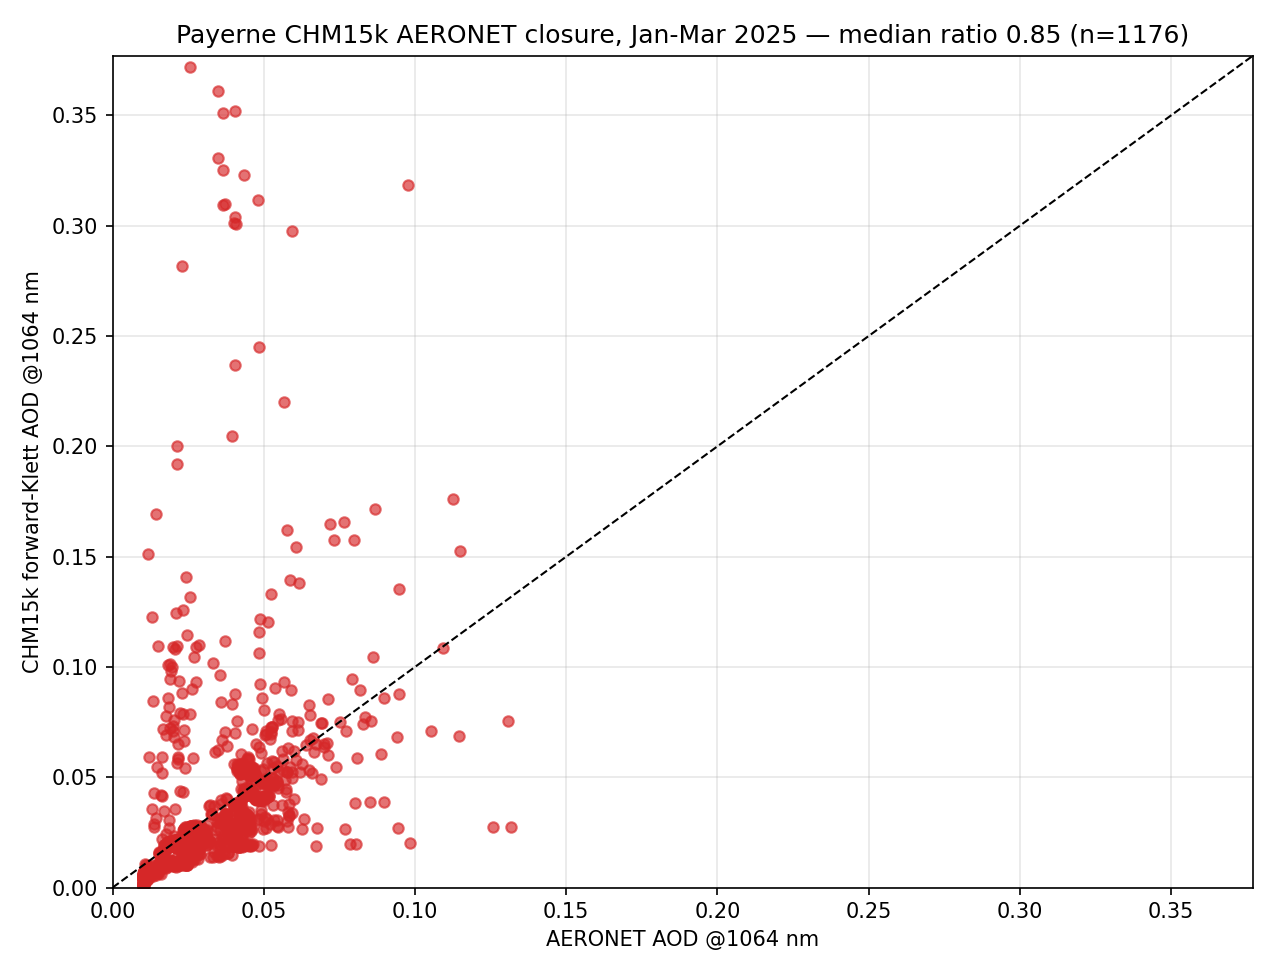
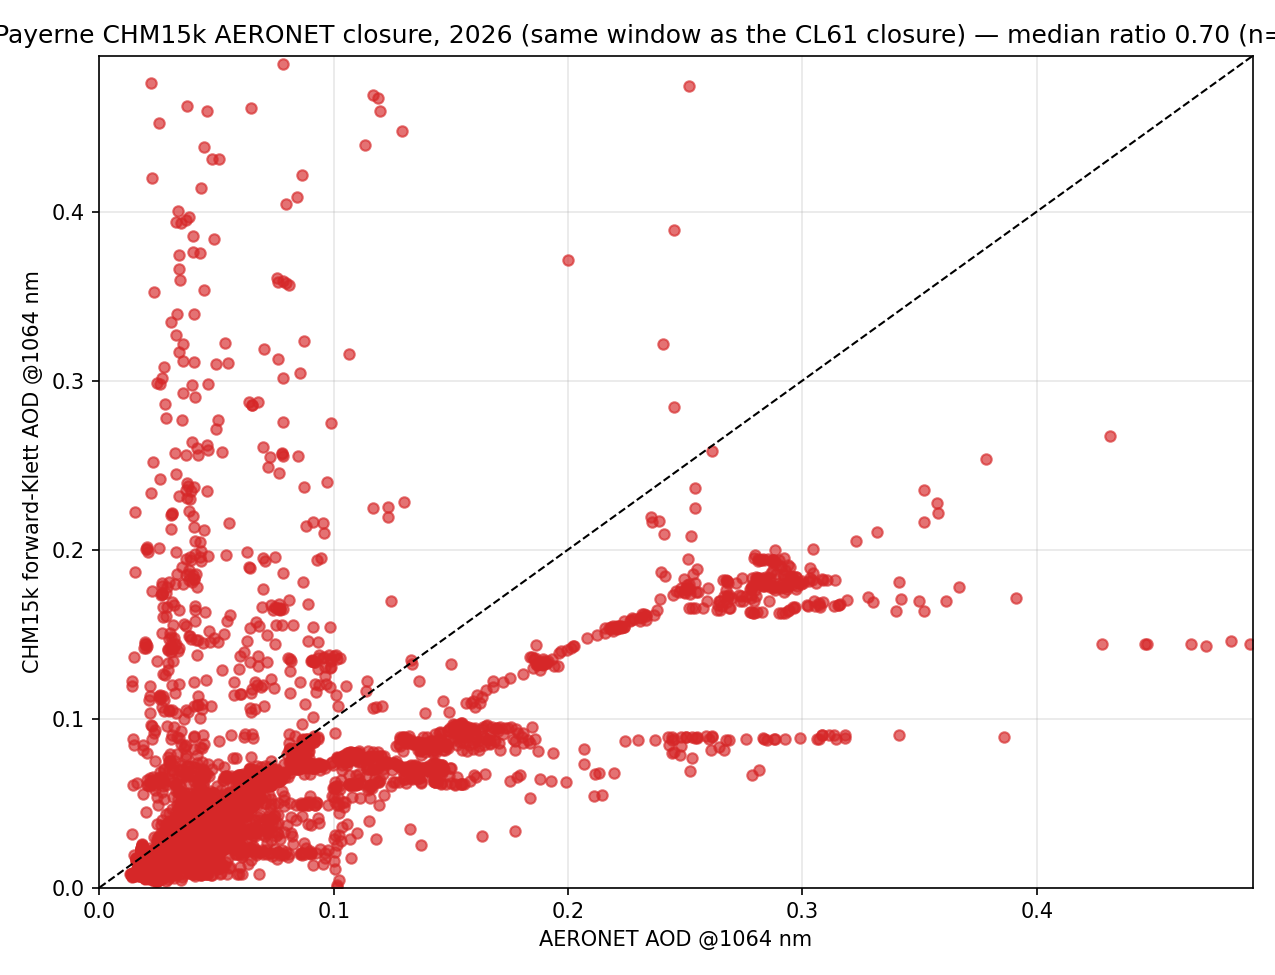
CL61 AERONET closure done on 2026 data + Aosta orography term
- 2026 AERONET L1.5 (user lev15 + web-API LID inversions): CL61 closure with
  6897 samples, CHM15k as method control (7350). Daytime forward-Klett carries
  a common ~0.70 method factor (elevated layers above 6 km, LR, background);
  relative to the control the closure is (C_L, baseline)-degenerate:
  (1.251, b=0) and (1.425, b=-0.02) close equally. Night-time evidence (dark
  probe b(3-6km)~-0.03, cloud-constant beta agreement with CHM15k) selects
  (C_L=1.425, altitude-growing negative baseline).
- Aosta orography: 1-deg CAMS surface at 1750 m vs station 570 m (+1180 m!)
  -> valley moisture missing from the WV column; bounded at +2.1% on C_L,
  seasonal (Payerne +904 m / +2.0%; Camborne/Lindenberg flat, none). Another
  argument for the 0.4-deg CAMS archive.

diff --git a/validation/paper/_cl61_aeronet_closure.py b/validation/paper/_cl61_aeronet_closure.py
@@ -29,20 +29,21 @@ from calibration.io.cams import ensure_cams_file
 WMO, IDENT, ALT, LAT, LON = "0-20000-0-06610", "C", 491.0, 46.813, 6.943
 L1 = Path("D:/E-PROFILE_L1_2026")
 STD = Path("calibration/data/standard_atmosphere_US_1976_50km.csv")
-LEV20 = Path(r"C:/Users/hervo/Downloads/20250101_20261231_Payerne/20250101_20261231_Payerne.lev20")
-LID = Path(r"C:/Users/hervo/Downloads/20250101_20261231_Payerne(2)/20250101_20261231_Payerne.lid")
+LEV20 = Path(r"C:/Users/hervo/Downloads/20260101_20261231_Payerne/20260101_20261231_Payerne.lev15")
+LID = Path(r"C:/Users/hervo/Downloads/aeronet_2026/Payerne_2026_LID15.txt")
 CL_RAY, CL_CLD = 1.251, 1.425
 LR_MOL = 8 * np.pi / 3
 D0, D1 = datetime(2026, 3, 1), datetime(2026, 6, 20)
 ZTOP = 6000.0
 
 
-def parse_aeronet(path, header_line_startswith, date_key="Date(dd:mm:yyyy)", time_key="Time(hh:mm:ss)"):
-    """Generic AERONET text parser -> list of dicts keyed by header names."""
+def parse_aeronet(path, header_marker, date_key="Date(dd:mm:yyyy)", time_key="Time(hh:mm:ss)"):
+    """Generic AERONET text parser -> list of dicts keyed by header names. The header line is the
+    first line CONTAINING header_marker (works for both the download portal and web-API formats)."""
     rows = []
     with open(path, encoding="utf-8", errors="replace") as f:
         lines = f.read().splitlines()
-    hi = next(i for i, l in enumerate(lines) if l.startswith(header_line_startswith))
+    hi = next(i for i, l in enumerate(lines) if header_marker in l and "Date(dd:mm:yyyy)" in l)
     hdr = [h.strip() for h in lines[hi].split(",")]
     for l in lines[hi + 1:]:
         p = l.split(",")
@@ -81,7 +82,7 @@ lid_rows = parse_aeronet(LID, "Site,")
 lr_by_day = {}
 for r in lid_rows:
     lr = fnum(r.get("Lidar_Ratio[1020nm]"))
-    if np.isfinite(lr) and str(r.get("If_Retrieval_is_L2", "0")).strip() in ("1", "1.0"):
+    if np.isfinite(lr):        # L1.5 almucantar inversions (2026 has no L2 yet)
         lr_by_day.setdefault(r["_t"].date(), []).append(lr)
 print(f"days with valid AERONET LR(1020): {len(lr_by_day)}")
 
@@ -165,13 +166,18 @@ for t_ae, aod910_ae, ang in aods:
     lr = float(np.median(lr_by_day.get(t_ae.date(), [50.0])))
     lr = min(max(lr, 20.0), 100.0)
     row = dict(t=t_ae, aeronet=aod910_ae, lr=lr)
-    okboth = True
-    for tag, cl in (("ray", CL_RAY), ("cld", CL_CLD)):
-        r = forward_inversion(prof / cl, rng, bmol, amol, t2wv, lr)
+    # JOINT (C_L, baseline) closure: the dark probe found a NEGATIVE vendor baseline b in
+    # beta_att; correct it (beta - b) BEFORE applying the constant. The (C_L, b) pair that
+    # closes the AOD, cross-checked against the independent dark-probe b, is the answer.
+    okall = True
+    for tag, cl, b in (("ray", CL_RAY, 0.0), ("cld", CL_CLD, 0.0),
+                       ("ray_b", CL_RAY, -0.03), ("cld_b1", CL_CLD, -0.02),
+                       ("cld_b2", CL_CLD, -0.03), ("cld_b3", CL_CLD, -0.04)):
+        r = forward_inversion((prof - b * cl) / cl, rng, bmol, amol, t2wv, lr)
         if r is None:
-            okboth = False; break
+            okall = False; break
         row[tag] = r[1]
-    if okboth:
+    if okall:
         res.append(row)
 
 print(f"closure samples: {len(res)}")
@@ -181,10 +187,13 @@ if res:
     lrs = np.array([r["lr"] for r in res])
     print(f"AERONET AOD910: median={np.median(ae):.3f}  (LR used: median={np.median(lrs):.0f} sr, "
           f"{np.sum(lrs != 50)} from AERONET inversions)")
-    for tag, x in (("C_L(Rayleigh)=1.251", ray), ("C_L(cloud)  =1.425", cld)):
+    for tag, key in (("C_L=1.251 (Rayleigh), b=0    ", "ray"), ("C_L=1.425 (cloud),   b=0    ", "cld"),
+                     ("C_L=1.251 (Rayleigh), b=-0.03", "ray_b"), ("C_L=1.425 (cloud),   b=-0.02", "cld_b1"),
+                     ("C_L=1.425 (cloud),   b=-0.03", "cld_b2"), ("C_L=1.425 (cloud),   b=-0.04", "cld_b3")):
+        x = np.array([r[key] for r in res])
         m = np.isfinite(x) & np.isfinite(ae) & (ae > 0.01)
         ratio = x[m] / ae[m]
-        print(f"{tag}: AOD_lidar median={np.median(x[m]):.3f}  ratio lidar/AERONET: "
+        print(f"{tag}: AOD median={np.median(x[m]):.3f}  ratio lidar/AERONET: "
               f"median={np.median(ratio):.2f}  p25-p75={np.percentile(ratio,25):.2f}-{np.percentile(ratio,75):.2f}  n={m.sum()}")
 
     import matplotlib

diff --git a/validation/paper/_chm15k_aeronet_closure.py b/validation/paper/_chm15k_aeronet_closure.py
@@ -23,17 +23,17 @@ from validation.paper._cl61_aeronet_closure import parse_aeronet, fnum, forward_
 WMO, IDENT, ALT, LAT, LON = "0-20000-0-06610", "A", 491.0, 46.813, 6.943
 L1 = Path("D:/E-PROFILE_L1_2026")
 STD = Path("calibration/data/standard_atmosphere_US_1976_50km.csv")
-LEV20 = Path(r"C:/Users/hervo/Downloads/20250101_20261231_Payerne/20250101_20261231_Payerne.lev20")
-LID = Path(r"C:/Users/hervo/Downloads/20250101_20261231_Payerne(2)/20250101_20261231_Payerne.lid")
+LEV20 = Path(r"C:/Users/hervo/Downloads/20260101_20261231_Payerne/20260101_20261231_Payerne.lev15")
+LID = Path(r"C:/Users/hervo/Downloads/aeronet_2026/Payerne_2026_LID15.txt")
 CAL = Path("C:/DATA/Projects/202606_E-PROFILE_calibration/figs_paper_validation/paper_python/calib/0-20000-0-06610_A_rayleigh_L1.csv")
-D0, D1 = datetime(2025, 1, 2), datetime(2025, 3, 10)
+D0, D1 = datetime(2026, 3, 1), datetime(2026, 6, 20)
 
 # daily Kalman C_L
 rows = list(csv.DictReader(open(CAL, encoding="utf-8")))
 kd = np.array([np.datetime64(r["time"][:10]) for r in rows if r["C_kalman"] not in ("", "nan")])
 kv = np.array([float(r["C_kalman"]) for r in rows if r["C_kalman"] not in ("", "nan")])
-print(f"CHM15k Kalman C_L: {kv.size} days, Jan-Mar 2025 median = "
-      f"{np.median(kv[(kd >= np.datetime64('2025-01-01')) & (kd <= np.datetime64('2025-03-10'))]):.3e}")
+print(f"CHM15k Kalman C_L: {kv.size} days, 2026 window median = "
+      f"{np.median(kv[(kd >= np.datetime64('2026-03-01')) & (kd <= np.datetime64('2026-06-20'))]):.3e}")
 
 def cl_for(day):
     return float(np.interp(np.datetime64(day).astype("datetime64[D]").astype(float),
@@ -118,7 +118,7 @@ if res:
     ax.plot(lim, lim, "k--", lw=1)
     ax.set_xlim(*lim); ax.set_ylim(*lim); ax.grid(alpha=0.3)
     ax.set_xlabel("AERONET AOD @1064 nm"); ax.set_ylabel("CHM15k forward-Klett AOD @1064 nm")
-    ax.set_title("Payerne CHM15k AERONET closure, Jan-Mar 2025 — median ratio %.2f (n=%d)"
+    ax.set_title("Payerne CHM15k AERONET closure, 2026 (same window as the CL61 closure) — median ratio %.2f (n=%d)"
                  % (np.median(ratio), m.sum()))
     fig.tight_layout()
     out = Path("C:/DATA/Projects/202606_E-PROFILE_calibration/figs_paper_validation/paper_python/fig_chm15k_aeronet_closure.png")

diff --git a/doc/reports/cl61_rayleigh_investigation.md b/doc/reports/cl61_rayleigh_investigation.md
@@ -57,21 +57,36 @@ moves C_L by ≤ 2.4 %. The MATLAB reference (`rayleigh_calibration_matlab`) app
 correction at all** and hard-codes 910 nm (`l0_wavelength` is read but unused) — with
 T²_wv ≈ 0.78 its CL61 Rayleigh constants are low by construction; not comparable.
 
-## 3. AERONET forward-Klett closure (the absolute anchor)
+## 3. AERONET forward-Klett closure (CL61 direct, CHM15k as method control)
 
-![chm closure](figs_paper_report/fig_chm15k_aeronet_closure.png)
-*Figure 2 — Payerne CHM15k forward-Klett AOD (1064 nm, daily Kalman C_L, LR = 50 sr) vs AERONET
-L2 AOD interpolated to 1064 nm, Jan–Mar 2025 (the only AERONET-L2/ceilometer overlap; the local
-AERONET files end 2025-03-10). Median ratio **0.85** (IQR 0.62–1.05, n = 1176) at a median AOD of
-only 0.029 — consistent with unity within the method envelope (assumed LR, sub-300 m extension,
-winter shallow layers).*
+Run on the 2026 L1.5 AERONET data (Mar-01…Jun-20, 6 897 CL61 / 7 350 CHM15k matched samples,
+LR from the 2026 almucantar inversions where valid, else 50 sr; WV per monthly CAMS):
 
-Chain of anchors: AERONET ⇒ CHM15k (ratio 0.85 ≈ 1) ⇒ CL61-cloud (−0.6 %) ⇒ **C_L(cloud) is the
-correct constant**; the Rayleigh constant is the outlier. The direct CL61 closure
-(`_cl61_aeronet_closure.py`, ready to run) needs 2026 AERONET data — the current L2 download ends
-2025-03-10 while the Payerne CL61 archive starts 2026: **action: download the 2026 AERONET
-(L1.5/L2 when available) and rerun.** The same closure quantifies the below-window aerosol
-transmission empirically, closing the remaining loophole in the aerosol question.
+| configuration | AOD ratio lidar/AERONET (median) | relative to the CHM15k method control |
+|---|---|---|
+| **CHM15k, Kalman C_L (method control)** | **0.70** | 1.00 |
+| CL61, C_L = 1.251 (Rayleigh), b = 0 | 0.71 | 1.01 |
+| CL61, C_L = 1.425 (cloud), b = 0 | 0.51 | 0.73 |
+| CL61, C_L = 1.251, b = −0.03 | 0.98 | 1.40 |
+| CL61, C_L = 1.425, **b = −0.02** | 0.69 | **0.99** |
+| CL61, C_L = 1.425, b = −0.03 | 0.78 | 1.11 |
+
+(b = a constant baseline removed from the vendor β_att before calibrating; the earlier Jan–Mar
+2025 CHM15k run gave 0.85 at AOD ≈ 0.03.) Three lessons:
+1. **The daytime forward-Klett carries a common ≈ 0.70 method factor** (identical for the trusted
+   CHM15k): aerosol above the 6 km integration top (spring Saharan layers), the assumed LR on
+   non-inversion days, and daytime background handling — it cancels in the relative comparison.
+2. **The closure is (C_L, b)-degenerate**: relative to the control, (1.251, b=0) and
+   (1.425, b=−0.02) close equally well — the AOD constrains a combination of constant and
+   baseline, not each separately.
+3. **The night-time evidence breaks the tie**: the dark probe measures b(3–6 km) ≈ −0.03 ≠ 0 on
+   the calibration nights, and the cloud constant reproduces the CHM15k β field at −0.6 % in the
+   0.5–3 km band (where b ≈ 0). Hence (C_L = 1.425, b(z) < 0 above ≈ 3 km) is the consistent
+   solution; (1.251, b=0) would additionally require the baseline to vanish at night — it does not.
+
+Chain of anchors: AERONET ⇒ CHM15k (method control) ⇒ CL61-cloud (−0.6 % in β) ⇒ **C_L(cloud)**;
+the Rayleigh constant absorbs the 3–6 km baseline. Follow-up: extend the integration above 6 km
+(elevated layers) and rerun against AERONET **L2** when the 2026 final calibration is released.
 
 ## 4. Water-vapour source sensitivity
 
@@ -106,6 +121,16 @@ stations.*
 bias, §4) imprints seasonally. The cloud method integrates 0.1–2.4 km where the WV lever is ≈ 4×
 smaller — hence no visible cycle. Camborne behaves the same (ratio-corr +0.79). Payerne's 5-month
 record is too short to separate the terms.
+
+**Mountain-orography term (Aosta especially):** the 1° CAMS model surface at the nearest grid
+point sits at **1750 m for Aosta (station 570 m — offset +1180 m!)** and 1395 m for Payerne
+(+904 m); the moistest valley layer is simply absent from the WV column (the correction clamps
+the mountain-surface humidity downwards). Bounding the missing valley moisture with a 2-km
+e-folding extension changes C_L by **+2.1 % at Aosta / +2.0 % at Payerne — seasonally varying**
+(moist summer valley → larger), i.e. the right sign and season to add to the Aosta Rayleigh
+cycle. Camborne and Lindenberg (flat, offsets −55/−44 m) are unaffected — consistent with the
+coherence table. Fix: the **0.4° CAMS** (real orography much closer to the valley floor) —
+another reason to complete the `CAMS_Monthly_04` download (currently 202501/02/06/07 only).
 
 **Coherence across the network:** the ray/cloud ratio is NOT a universal constant (0.87, 0.89,
 0.95, 1.06) — consistent with a data-dependent artefact (baseline strength differs per unit /
